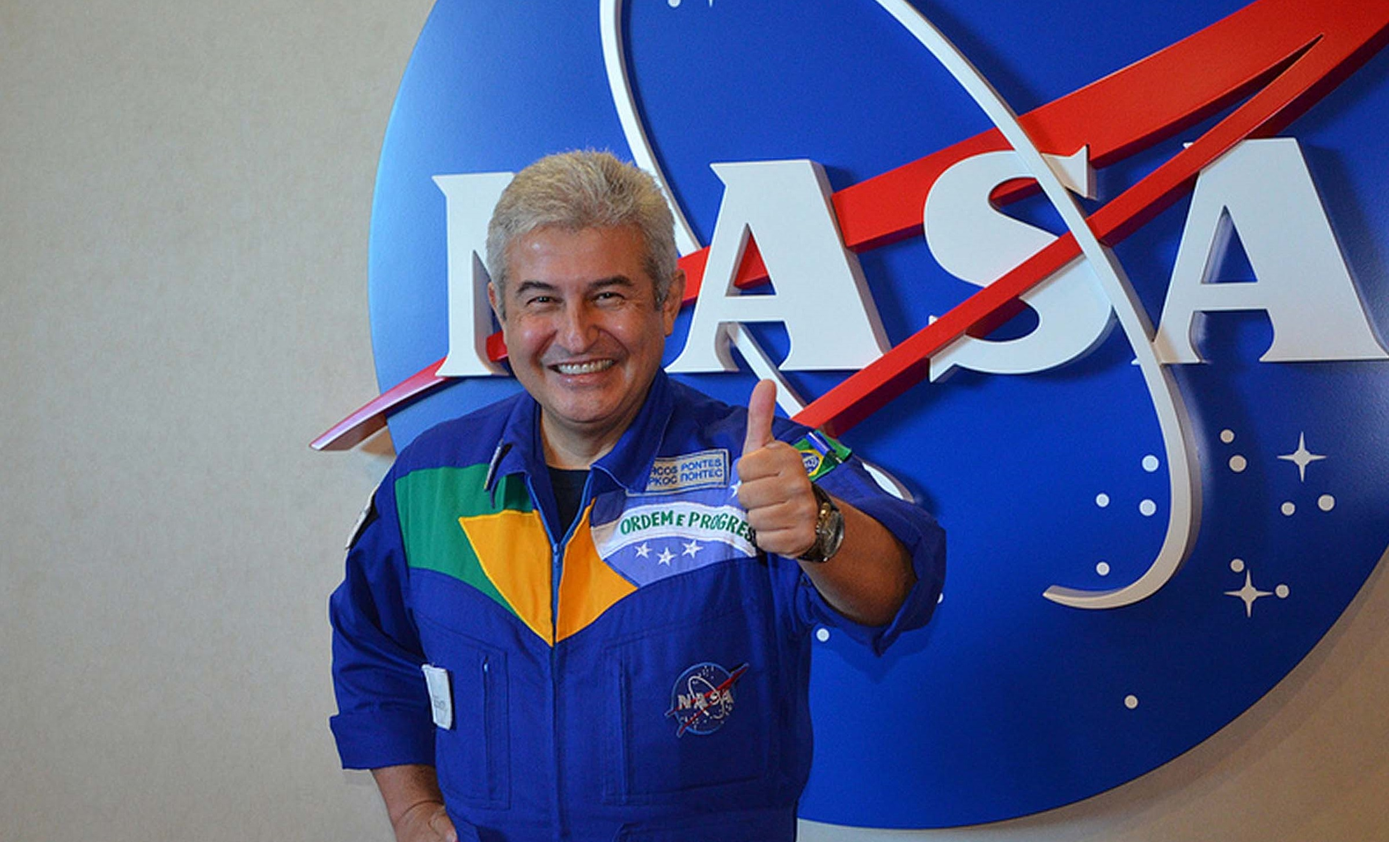
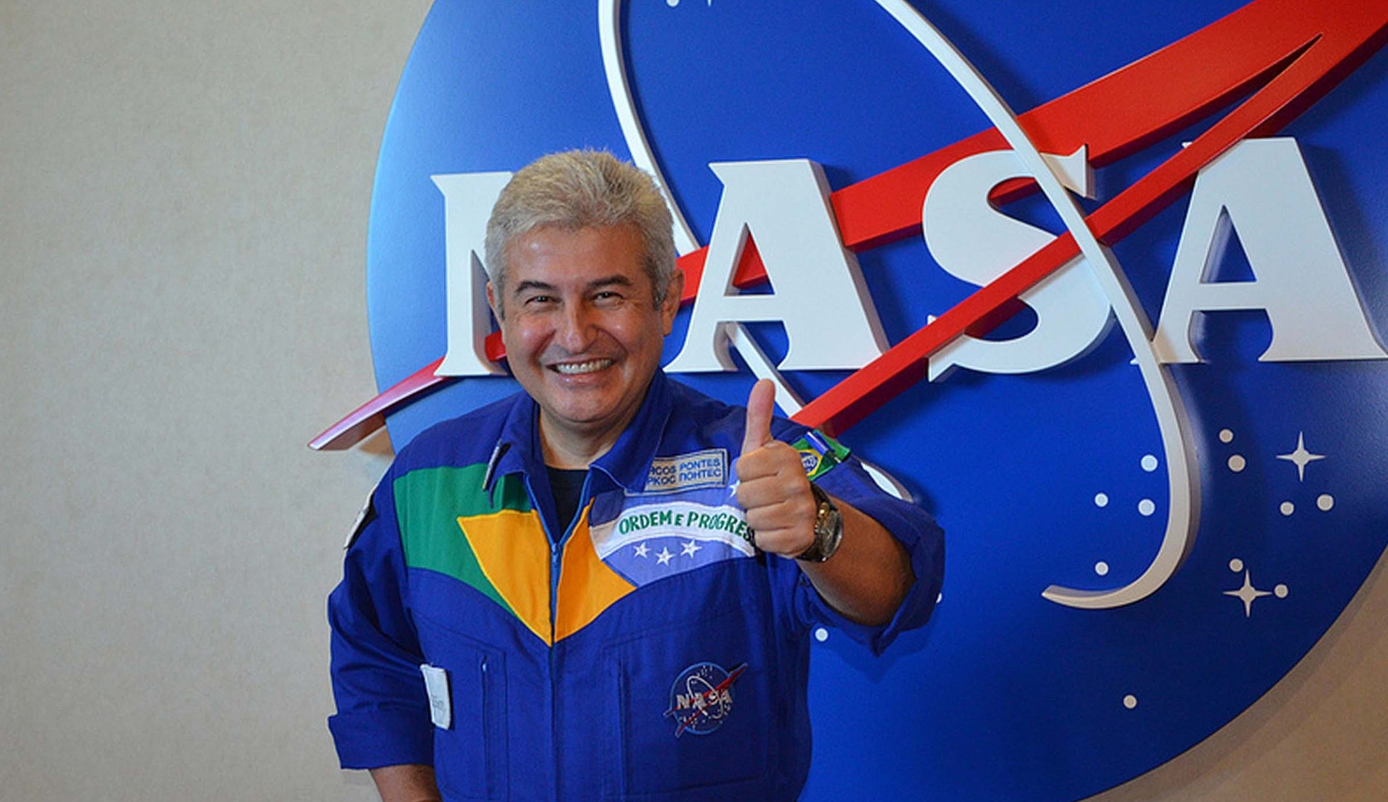
Correção slide

diff --git a/news/css/section.css b/news/css/section.css
@@ -31,13 +31,14 @@ section{
 }
 
 .mySlides:nth-child(1){
-    background-image: url(../images/Marcos-Pontes.jpg);
+    background-image: url(../images/Marcos-Pontes-render.png);
     display: none;
     min-width: 250px;
     min-height: 250px;
     width: 100vw;
     height: 288px;
-    background-position: center;
+    background-position-x: center;
+    background-position-y: 25%;
     background-repeat: no-repeat;
     background-size: 150%;
 }
@@ -48,8 +49,9 @@ section{
     min-width: 250px;
     min-height: 250px;
     width: 100vw;
-    height: 60vh;
-    background-position: center;
+    height: 288px;
+    background-position-x: center;
+    background-position-y: 70%;
     background-repeat: no-repeat;
     background-size: 150%;
 }
